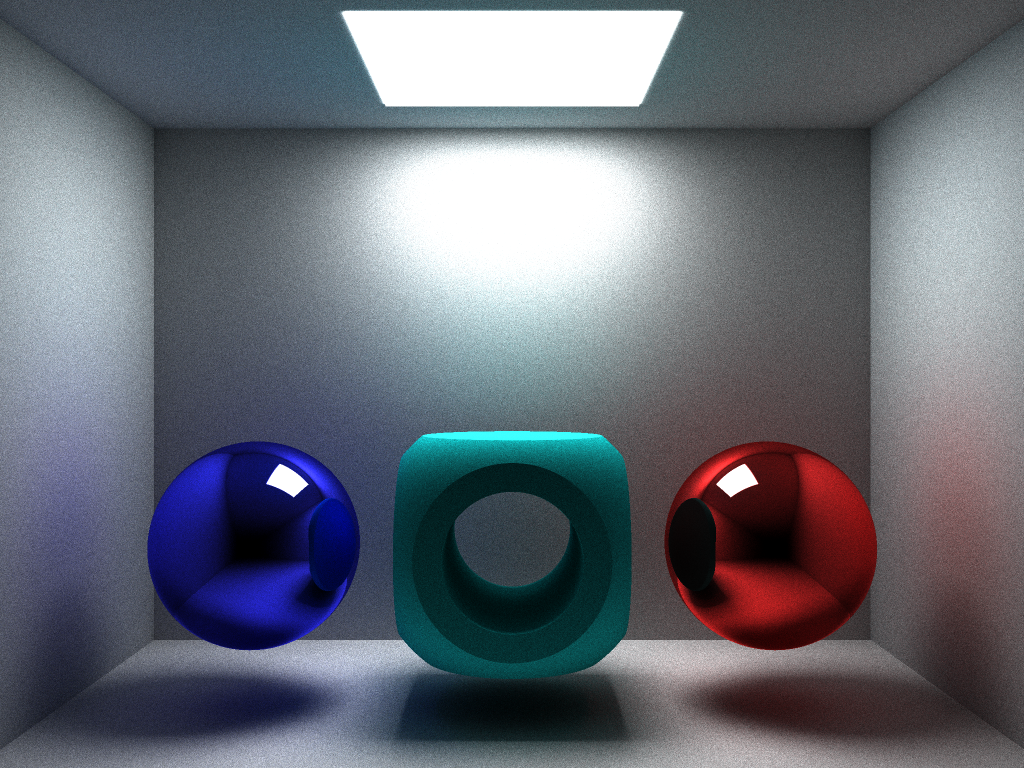
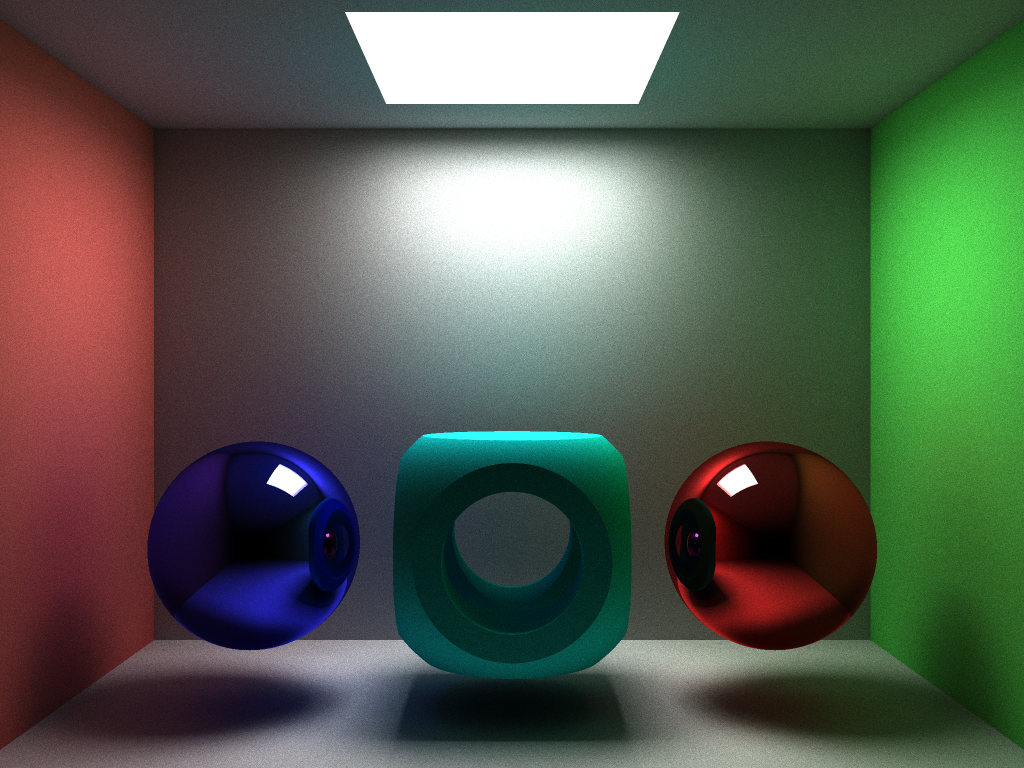
Ray::RunOnce() | REFACTORING

diff --git a/main.cpp b/main.cpp
@@ -24,28 +24,30 @@ int main(int argc, char *argv[])
 	NewSphere1->SetName("Sphere 1");
 	NewSphere1->SetRadius(44);
 	NewSphere1->SetPosition(0, 50, ObjectZpos);
-	//NewSphere1->SetSpecularity(0.4);
-	//NewSphere1->SetBrightness(1.0);
 
 	Cube *NewCube1=new Cube();
 	NewCube1->SetName("Cube 1");
 	NewCube1->SetLength(68);
 	NewCube1->SetPosition(0, 50, ObjectZpos);
-	//NewCube1->SetSpecularity(0.4);
-	//NewCube1->SetBrightness(1.0);
 
 	Intersection *ShpereCubeIntersection=new Intersection(NewSphere1, NewCube1);
 
 	Cylinder *NewCylinder1=new Cylinder();
-	NewCylinder1->SetName("Cylinder 1");
 	NewCylinder1->SetLength(70);
 	NewCylinder1->SetRadius(20);
 	NewCylinder1->SetPosition(0, 50, ObjectZpos);
-	//NewCylinder1->SetSpecularity(0.5);
-	//NewCylinder1->SetBrightness(0.25);
+	NewCylinder1->SetOrientation(0, 0, 1);
 
-	Difference *Construct=new Difference(ShpereCubeIntersection, NewCylinder1);
-	Construct->SetColor(20, 180, 180);
+	Cylinder *NewCylinder2=new Cylinder();
+	NewCylinder2->SetLength(70);
+	NewCylinder2->SetRadius(20);
+	NewCylinder2->SetPosition(0, 50, ObjectZpos);
+	NewCylinder2->SetOrientation(1, 0, 0);
+
+	Union *Cylinders=new Union(NewCylinder1, NewCylinder2);
+
+	Difference *Construct=new Difference(ShpereCubeIntersection, Cylinders);
+	Construct->SetColor(18, 200, 200);
 
 	// ========
 	Sphere *BlueSphere=new Sphere();
@@ -53,7 +55,6 @@ int main(int argc, char *argv[])
 	BlueSphere->SetRadius(32);
 	BlueSphere->SetPosition(-80, 50, ObjectZpos);
 	BlueSphere->SetSpecularity(1.0);
-	//BlueSphere->SetBrightness(0.5);
 	BlueSphere->SetColor(52, 52, 255);
 
 	Sphere *BlackSphere=new Sphere();
@@ -61,7 +62,6 @@ int main(int argc, char *argv[])
 	BlackSphere->SetRadius(32);
 	BlackSphere->SetPosition(-80, 50, ObjectZpos);
 	BlackSphere->SetSpecularity(1.0);
-	//BlackSphere->SetBrightness(0.5);
 	BlackSphere->SetColor(20, 20, 20);
 
 	Sphere *YellowSphere=new Sphere();
@@ -69,7 +69,6 @@ int main(int argc, char *argv[])
 	YellowSphere->SetRadius(32);
 	YellowSphere->SetPosition(80, 50, ObjectZpos);
 	YellowSphere->SetSpecularity(1.0);
-	//YellowSphere->SetBrightness(0.5);
 	YellowSphere->SetColor(255, 255, 14);
 
 	Sphere *RedSphere=new Sphere();
@@ -77,7 +76,6 @@ int main(int argc, char *argv[])
 	RedSphere->SetRadius(32);
 	RedSphere->SetPosition(80, 50, ObjectZpos);
 	RedSphere->SetSpecularity(1.0);
-	//RedSphere->SetBrightness(0.5);
 	RedSphere->SetColor(255, 48, 48);
 
 	Cylinder *Cylinder2=new Cylinder();
@@ -86,7 +84,6 @@ int main(int argc, char *argv[])
 	Cylinder2->SetRadius(28);
 	Cylinder2->SetPosition(80, 50, ObjectZpos);
 	Cylinder2->SetSpecularity(1.0);
-	//Cylinder2->SetBrightness(0.25);
 	Cylinder2->SetColor(240, 18, 240);
 
 	Cube *Cube2=new Cube();
@@ -107,63 +104,73 @@ int main(int argc, char *argv[])
 	Torus1->SetColor(200, 200, 80);
 
 	// ======== box
+	Cube *Cube3=new Cube();
+	Cube3->SetLength(90);
+	Cube3->SetPosition(0, -144, ObjectZpos);
+
 	Plane *Plane1=new Plane();
-	Plane1->SetName("Ceiling");
 	Plane1->SetPosition(0, -100, 0);
 	Plane1->SetOrientation(0, 1, 0);
 
-	Plane *Plane2=new Plane();
-	Plane1->SetName("Back wall");
-	Plane2->SetPosition(0, 0, 400);
-	Plane2->SetOrientation(0, 0, -1);
+	Difference *Ceiling=new Difference(Plane1, Cube3);
+	Ceiling->SetName("Ceiling");
+	Ceiling->SetColor(180, 180, 180);
+
+	Plane *Floor=new Plane();
+	Floor->SetName("Floor");
+	Floor->SetPosition(0, 100, 0);
+	Floor->SetOrientation(0, -1, 0);
+	Floor->SetColor(180, 180, 180);
 
 	Plane *Plane3=new Plane();
-	Plane1->SetName("Floor");
-	Plane3->SetPosition(0, 100, 0);
-	Plane3->SetOrientation(0, -1, 0);
+	Plane3->SetName("Back wall");
+	Plane3->SetPosition(0, 0, 400);
+	Plane3->SetOrientation(0, 0, -1);
+	Plane3->SetColor(180, 180, 180);
 
 	Plane *Plane4=new Plane();
+	Plane4->SetName("Red wall");
 	Plane4->SetPosition(-140, 0, 0);
 	Plane4->SetOrientation(1, 0, 0);
+	Plane4->SetColor(255, 100, 100);
 
 	Plane *Plane5=new Plane();
+	Plane5->SetName("Green wall");
 	Plane5->SetPosition(140, 0, 0);
 	Plane5->SetOrientation(-1, 0, 0);
-
-	Union *BoxUnion1=new Union(Plane1, Plane2);
-	Union *BoxUnion2=new Union(Plane3, Plane4);
-	Union *BoxUnion3=new Union(BoxUnion1, BoxUnion2);
-	Union *Box=new Union(BoxUnion3, Plane5);
-	Box->SetColor(180, 180, 180);
+	Plane5->SetColor(100, 255, 100);
 
 	// ======== lights
 	Cube *LightSource1=new Cube();
+	LightSource1->SetName("Cubical light source");
 	LightSource1->SetLength(90);
-	LightSource1->SetPosition(0, -144, ObjectZpos);
-
-	Difference *LightPanel=new Difference(LightSource1, Plane1);
-	LightPanel->SetName("Light panel");
-	LightPanel->SetColor(255, 255, 255);
-	LightPanel->SetBrightness(10.0);
+	LightSource1->SetPosition(0, -155, ObjectZpos);
+	LightSource1->SetColor(255, 255, 255);
+	LightSource1->SetBrightness(10.0);
 
 	Sphere *LightSource2=new Sphere();
 	LightSource2->SetName("Spherical light source");
 	LightSource2->SetRadius(10);
-	LightSource2->SetPosition(80, -50, ObjectZpos);
-	LightSource2->SetBrightness(2.0);
+	LightSource2->SetPosition(80, -100, ObjectZpos);
 	LightSource2->SetColor(255, 255, 255);
+	LightSource2->SetBrightness(5.0);
 
+	NewScene->AddObject(Ceiling);
+	NewScene->AddObject(Floor);
+	NewScene->AddObject(Plane3);
+	NewScene->AddObject(Plane4);
+	NewScene->AddObject(Plane5);
+
+	NewScene->AddObject(LightSource1);
+	//NewScene->AddObject(LightSource2);
 	NewScene->AddObject(Construct);
 	NewScene->AddObject(BlueSphere);
-	// NewScene->AddObject(BlackSphere);
+	//NewScene->AddObject(BlackSphere);
 	//NewScene->AddObject(YellowSphere);
 	NewScene->AddObject(RedSphere);
-	// NewScene->AddObject(Cylinder2);
-	// NewScene->AddObject(Cube2);
-	// NewScene->AddObject(Torus1);
-	NewScene->AddObject(LightPanel);
-	// NewScene->AddObject(LightSource2);
-	NewScene->AddObject(Box);
+	//NewScene->AddObject(Cylinder2);
+	//NewScene->AddObject(Cube2);
+	//NewScene->AddObject(Torus1);
 
 	uint32_t samples_per_pixel;
 	for(samples_per_pixel=2; samples_per_pixel<1025; samples_per_pixel*=2)

diff --git a/basicObjects.cpp b/basicObjects.cpp
@@ -194,11 +194,11 @@ double Object::GetDistance(Vec3d from) const
 Vec3d Object::GetNormalVector(Vec3d point) const
 {
 	double b=GetDistance(Vec3d(point.X - NORMAL_CALCULATION_DIST, point.Y - NORMAL_CALCULATION_DIST, point.Z - NORMAL_CALCULATION_DIST));
-	Vec3d normalV(
+	Vec3d normalVec(
 		GetDistance(Vec3d(point.X + NORMAL_CALCULATION_DIST, point.Y - NORMAL_CALCULATION_DIST, point.Z - NORMAL_CALCULATION_DIST)) - b,
 		GetDistance(Vec3d(point.X - NORMAL_CALCULATION_DIST, point.Y + NORMAL_CALCULATION_DIST, point.Z - NORMAL_CALCULATION_DIST)) - b,
 		GetDistance(Vec3d(point.X - NORMAL_CALCULATION_DIST, point.Y - NORMAL_CALCULATION_DIST, point.Z + NORMAL_CALCULATION_DIST)) - b);
-	return(normalV);
+	return(normalVec);
 }
 
 // ========= CSG ===
@@ -378,7 +378,7 @@ void Ray::Run()
 Object *Ray::RunOnce()
 {
 	uint64_t StepsTaken=0, StepsPerRunLimit=pStepsPerRunLimit;
-	Object *prettyCloseObject=nullptr;
+	Vec3d Position=pPosition, Orientation=pOrientation;
 	while(StepsTaken<StepsPerRunLimit)
 	{
 		double minDistance=(double)(UINT64_MAX>>12), Distance;
@@ -388,24 +388,21 @@ Object *Ray::RunOnce()
 			{
 				continue;
 			}
-			Distance=sceneObject->GetDistance(pPosition);
+			Distance=sceneObject->GetDistance(Position);
 			if(Distance<minDistance)
 			{
 				minDistance=Distance;
-				if(Distance<RAY_PROXIMITY_DISTANCE)
+				if(Distance<RAY_COLLISION_DISTANCE)
 				{
-					prettyCloseObject=sceneObject;
-					if(Distance<RAY_COLLISION_DISTANCE)
-					{
-						return(prettyCloseObject);
-					}
+					pPosition=Position;
+					return(sceneObject);
 				}
 			}
 		}
-		pPosition=pPosition+pOrientation*minDistance;
 		StepsTaken++;
+		Position=Position+Orientation*minDistance;
 	}
-	return(prettyCloseObject);
+	return(nullptr);
 }
 
 // ========= SPHERE ===
@@ -425,6 +422,11 @@ double Sphere::GetDistance(Vec3d from) const
 {
 	from=from-pPosition;
 	return(from.Length()-pRadius);
+}
+
+Vec3d Sphere::GetNormalVector(Vec3d point) const
+{
+	return(point-pPosition);
 }
 
 // ========= CUBE ===
@@ -512,4 +514,9 @@ double Plane::GetDistance(Vec3d from) const
 {
 	from=from-pPosition;
 	return(from.Dot(pOrientation));
+}
+
+Vec3d Plane::GetNormalVector(Vec3d point) const
+{
+	return(pOrientation);
 }

diff --git a/basicObjects.hpp b/basicObjects.hpp
@@ -52,7 +52,7 @@ public:
 	void SetName(const string &name);
 
 	virtual double GetDistance(Vec3d from) const;
-	Vec3d GetNormalVector(Vec3d point) const;
+	virtual Vec3d GetNormalVector(Vec3d point) const;
 
 	vector <Object *> *SceneObjects;
 };
@@ -89,7 +89,6 @@ class Ray : public Object
 	prng_u64 pPRNG;
 	Vec3d createRandomVector3d();
 public:
-	static constexpr double RAY_PROXIMITY_DISTANCE = 1.0/8.0;
 	static constexpr double RAY_COLLISION_DISTANCE = 1.0/16.0;
 	Ray();
 	void SetDefaultOrientation(double x, double y, double z);
@@ -106,6 +105,7 @@ public:
 	Sphere();
 	void SetRadius(double radius);
 	double GetDistance(Vec3d from) const;
+	Vec3d GetNormalVector(Vec3d point) const;
 };
 
 class Cube : public Object
@@ -143,6 +143,7 @@ class Plane : public Object
 public:
 	Plane();
 	double GetDistance(Vec3d from) const;
+	Vec3d GetNormalVector(Vec3d point) const;
 };
 
 #endif // BASICOBJECTS_HPP
